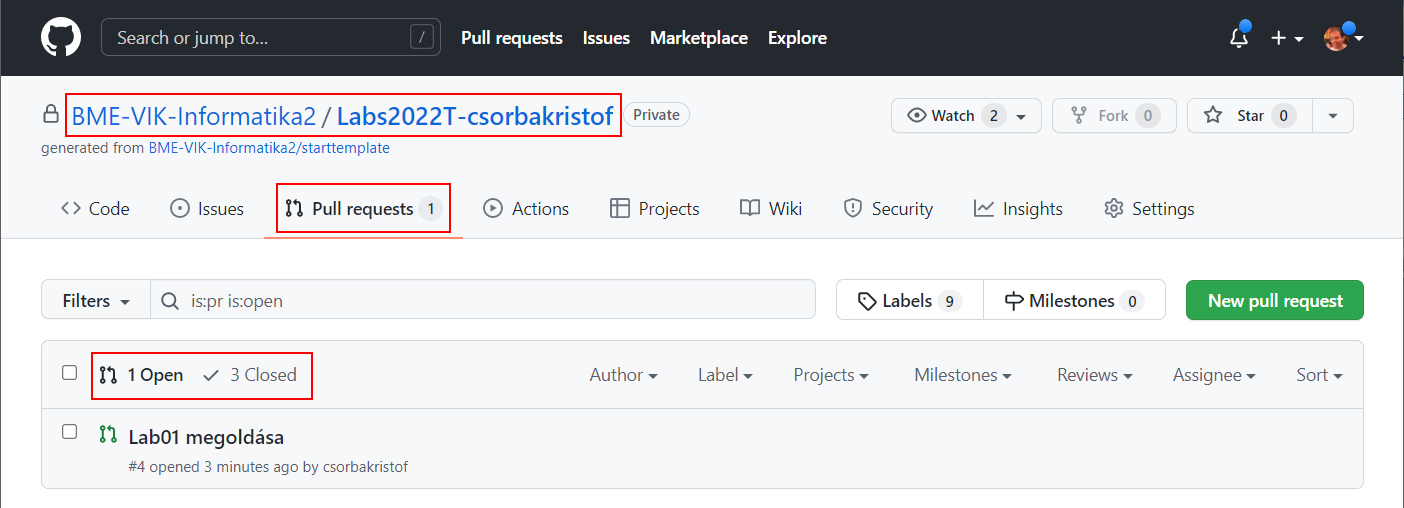
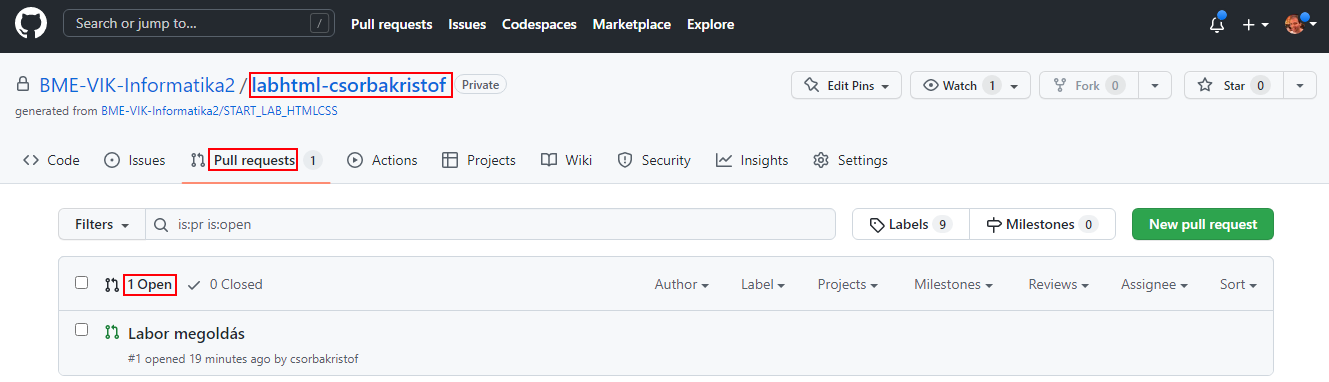
Screenshot update and small fixes

diff --git a/snippets/0115_GitPullRequest/index.md b/snippets/0115_GitPullRequest/index.md
@@ -130,15 +130,15 @@ A repositorynk pull requests oldalán a példában még nincsen nyitott pull req
 
 ![](image/09_PullRequests.png)
 
-Most kell megadnunk, hogy melyik ágat melyik ággal fogjuk összehasonlítani. A base a kiindulási alap, vagyis marad a master, a compare-t pedig át kell állítanunk a megoldásunkat tartalmazóra, vagyis a Lab01Megoldas ágra:
+Most kell megadnunk, hogy melyik ágat melyik ággal fogjuk összehasonlítani. A base a kiindulási alap, vagyis marad a master, a compare-t pedig át kell állítanunk a megoldásunkat tartalmazóra, vagyis a labor ágra (ha a csak githubos felületet használó utat választottuk, ott "Lab01Megoldas" néven futott):
 
 ![](image/10_Compare.png)
 
-A beállítás után egyből láthatjuk a leendő pull request tartalmát, vagyis hogy milyen módosításokat hajtottunk végre a forráskódban a megoldás során. (Itt most csak egy fájl jelenik meg, melynek minden sora új sor, de ha például kiadott keretprogrammal dolgoznánk, itt pirossal megjelenő, törölt sorok is előfordulhatnának.) Miután meggyőződtünk róla, hogy itt látható a labor teljes megoldása. (Ha több commitban van a megoldás, akkor fontos, hogy itt már minden commit tartalma együtt látszik, vagyis minden módosításnak szerepelnie kell benne, mert a laborvezető is pontosan ezeket a változásokat fogja látni.) Ha minden rendben van, nyomjuk meg a "Create pull request" gombot:
+A beállítás után egyből láthatjuk a leendő pull request tartalmát, vagyis hogy milyen módosításokat hajtottunk végre a forráskódban a megoldás során. (Itt most csak egy fájl jelenik meg, melynek minden sora új sor, de ha például kiadott keretprogrammal dolgoznánk, itt pirossal megjelenő, törölt sorok is előfordulhatnának.) Itt győződhetünk meg róla, hogy a pull requestben a labor teljes megoldása benne van és felesleges fájlok pedig nincsennek benne. (Ha több commitban van a megoldás, akkor fontos, hogy itt már minden commit tartalma együtt látszik, vagyis minden módosításnak szerepelnie kell benne, mert a laborvezető is pontosan ezeket a változásokat fogja látni.) Ha minden rendben van, nyomjuk meg a "Create pull request" gombot:
 
 ![](image/11_SeeDiff.png)
 
-A pull requestnek van egy szöveges üzenet része, amiben alapértelmezés szerint egy sablon szöveg jelenik meg. A példában itt egy ellenőrzési lista szerepel. Ezeket érdemes minden alkalommal végigfutni, hogy helyes pull requestet adjatok le. Közben ide nyugodtan lehet írni bármi egyebet is, ha van valami megjegyzésetek a megoldásotokhoz. Egyes tantárgyakból ide szoktunk screenshotot kérni a futó eredményről.)
+A pull requestnek van egy szöveges üzenet része, amiben alapértelmezés szerint egy sablon szöveg jelenik meg. Itt gyakran egy ellenőrzési listát is elhelyezünk azért, hogy a feladat beadásoknál semmi fontos ne maradjon ki. Ezeket érdemes minden alkalommal végigfutni, hogy helyes pull requestet adjatok le. Közben ide nyugodtan lehet írni bármi egyebet is, ha van valami megjegyzésetek a megoldásotokhoz. Egyes laborokon ide szoktunk screenshotot kérni a futó eredményről, ebbe az oldalba simán lehet copy-pastelni képeket is.)
 
 A szöveges rész kitöltése mellett ekkor lehet reviewert, jelen esetben laborvezetőt hozzárendelni a pull requesthez. Ez azért fontos, mert ettől fog a laborvezetőtöknél megjelenni a labor beadásotok, így szerez majd róla tudomást. A reviewer listát a kis fogaskerék ikonnal tudjátok lenyitni és ellenőrizzétek, hogy a saját laborvezetőtök userneve előtt megjelenik a kis pipa, amikor kiválasztjátok:
 
@@ -150,7 +150,7 @@ A labvezér beállítása után egy utolsó ellenőrzés, és mehet is a "Create
 
 ![](image/14_PullRequestReady.png)
 
-Ilyenkor még érdemes egy pillantást vetni a pull request "Files changed" oldalára, melyen ismét ellenőrizhetitek, hogy pontosan azok a változások kerültek bele, amiket akartatok. (Például egy labor megoldásba nem került bele a néha ezzel párhuzamosan készített házi feladat megoldásának néhány commitja.)
+Ilyenkor még érdemes egy pillantást vetni a pull request "Files changed" oldalára, melyen ismét ellenőrizhetitek, hogy pontosan azok a változások kerültek bele, amiket akartatok.
 
 ![](image/15_CheckingFilesChanged.png)
 
@@ -162,7 +162,7 @@ Fontos, hogy bár ennek a végén nektek is lehetőségetek van mergelni a pull 
 
 Amint a laborvezetőtök értékelte a megoldásotokat, a forráskódhoz fűzött esetleges kommentárjai, valamint az a tény, hogy elfogadta a pull requestet, szintén itt fog megjelenni.
 
-Itt érdemes megjegyezni, hogy a hagyományos munkafolyamatban a pull request sorsának általában az a vége, hogy mergelődik. Itt ennek nincsen feltétlenül értelme: a laborokon mi csak arra használjuk a pull requestet, hogy jelezze a beadást tényét és könnyen lehessen visszajelzést adni. Ha a megoldás utána marad a Lab01Megoldas ágon és nem mergelődik a master ágra, az a tantárgyi keretek között nem gond. Ettől függetlenül nyugodtan mergelhetitek, miután a labvezér elfogadta.
+Itt érdemes megjegyezni, hogy a hagyományos munkafolyamatban a pull request sorsának általában az a vége, hogy mergelődik. Itt ennek nincsen feltétlenül értelme: a laborokon mi csak arra használjuk a pull requestet, hogy jelezze a beadást tényét és könnyen lehessen visszajelzést adni. Ha a megoldás utána marad a "labor" ágon és nem mergelődik a master ágra, az a tantárgyi keretek között nem gond. Ettől függetlenül nyugodtan mergelhetitek, miután a labvezér elfogadta.
 
 ![](image/17_PullRequestConversation_DoNotMergeOrClose.png)
 
@@ -173,8 +173,8 @@ A folyamatban lévő, vagyis nyitott pull requestjeiteket mindig meg tudjátok n
 És végül még egy fontos dolog: mi van, ha valamit elrontassz a folyamatban?
 
   - Ha még nem hoztad létre a pull requestet, akkor senki nem is látta, hogy valami félre ment, kezd nyugodtan újra az egészet, akár onnan is, hogy egy új branchre még egyszer feltöltöd a labor megoldásodat. (Lehet, hogy ott marad akkor egy régi, fel nem használt branch, de az senkit nem zavar.)
-  - Ha már létrehoztad a pull requestet, de még nem jött el a leadási határidő, így a laborvezetőd nemigen látta, nyugodtan zárd le (esetleg a írd oda kommentárba vagy az elején lévő szövegbe, hogy ez nem a végleges és ne vegyük figyelembe).
-  - Ha a forráskód szinten maradt le valami, esetleg valamit utólag javítassz, akkor ha a pull request ágára (a fenti példában a Lab01Megoldas ágra) commitolsz a pull request létrehozása után, a módosítás automatikusan bekerül a pull requestbe is. Igaz, a laborvezetőd látni fogja az időbeli különbséget, így a határidő utáni módosítást is észre fogja venni, de a határidő előtt nyugodtan utólag is "hozzá lehet még csapni" pár módosítást, ahhoz nem is kell új pull requestet létrehozni.
+  - Ha már létrehoztad a pull requestet, de még nem jött el a leadási határidő, így a laborvezetőd nemigen látta, nyugodtan zárd le (esetleg írd oda kommentárba vagy az elején lévő szövegbe, hogy ez nem a végleges és ne vegyük figyelembe).
+  - Ha a forráskód szinten maradt le valami, esetleg valamit utólag javítassz, akkor ha a pull request ágára (a fenti példában a "labor" ágra) commitolsz a pull request létrehozása után, a módosítás automatikusan bekerül a pull requestbe is. Igaz, a laborvezetőd látni fogja az időbeli különbséget, így a határidő utáni módosítást is észre fogja venni, de a határidő előtt nyugodtan utólag is "hozzá lehet még csapni" pár módosítást, ahhoz nem is kell új pull requestet létrehozni.
   - Ha a leadási határidő után javítanál valamit, inkább szólj a labvezérednek, hogy készítenél egy új pull requestet, hogy ne legyen kavarodás.
 
   És ami még egy kavarodási forrás: mi van akkor, ha elfelejtettél új branchet létrehozni és a masterre commitoltad a megoldást? Általános szabály, hogy a pull request két ág különbsége. Vagyis ilyen esetben létre hozhatsz egy új branchet a labor megoldása előtti commitra (ahova eredetileg a masternek kellett volna mutatnia), és a pull requestben akkor megfordulnak a szerepek: a master lesz a megoldást tartalmazó és ez az új ág a "base", vagyis a kiindulási alap. Gondolj arra, hogy a commitok gráfja a lényeg és az ágak csak egy-egy commitra mutatnak. Új ágakkal bármikor bárhova mutathatsz, bármelyiket bárhova áthelyezheted (reset művelet). Commitot elveszíteni igencsak nehéz, az ágakat meg át lehet helyezni, így elég nagy kavarodásokat is viszonylag könnyen rendbe lehet rakni. Ami fontos, hogy mindig a commit gráfot nézd és abban gondolkodj! (Ha pedig megakadsz, kérj segítséget, praktikusan egy commit gráf screenshottal kezdve.)
